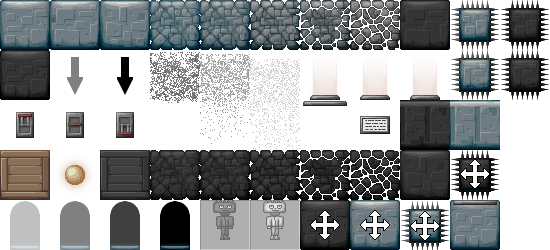
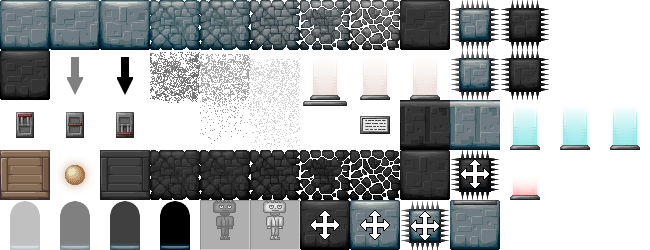
implemented the automatic teleporter and broken teleporter https://forum.freegamedev.net/viewtopic.php?f=48&t=8105&p=85640#p85377

diff --git a/src/Player.cpp b/src/Player.cpp
@@ -471,7 +471,11 @@ void Player::move(vector<Block*> &levelObjects,int lastX,int lastY){
 
 					//If we're not the shadow set the gameTip to portal.
 					if (!shadow && objParent != NULL) {
-						if (levelObjects[o]->message.empty()) {
+						if (levelObjects[o]->queryProperties(GameObjectProperty_Flags, shadow) & 0x40000000) {
+							// The player has figured out that this teleporter is broken.
+							objParent->gameTipText += _("It looks like that this portal leads to nowhere.");
+							objParent->gameTipText += "\n";
+						} else if (levelObjects[o]->message.empty()) {
 							objParent->gameTipText += tfm::format(
 								/// TRANSLATORS: Please do not remove %s from your translation:
 								///  - %s will be replaced with current action key
@@ -486,6 +490,8 @@ void Player::move(vector<Block*> &levelObjects,int lastX,int lastY){
 					if(canTeleport && (downKeyPressed || (levelObjects[o]->queryProperties(GameObjectProperty_Flags,shadow)&1))){
 						canTeleport=false;
 						if(downKeyPressed || levelObjects[o]!=objLastTeleport.get()){
+							bool atLeastOneIsBlocked = false;
+
 							//Loop the levelobjects again to find the destination.
 							for(unsigned int oo=o+1;;){
 								//We started at our index+1.
@@ -498,6 +504,13 @@ void Player::move(vector<Block*> &levelObjects,int lastX,int lastY){
 									//Couldn't teleport. We play the error sound only when the down key pressed.
 									if (downKeyPressed) {
 										getSoundManager()->playSound("error");
+
+										if (atLeastOneIsBlocked) {
+											objParent->updateShadowDeathTipTexture(getRenderer(), _("Can't teleport because the destination is blocked."));
+										} else {
+											objParent->updateShadowDeathTipTexture(getRenderer(), _("Can't teleport because the portal has no destination."));
+											levelObjects[o]->breakTeleporter();
+										}
 									}
 									break;
 								}
@@ -546,6 +559,8 @@ void Player::move(vector<Block*> &levelObjects,int lastX,int lastY){
 											//Play the swap sound.
 											getSoundManager()->playSound("swap");
 											break;
+										} else {
+											atLeastOneIsBlocked = true;
 										}
 									}
 								}

diff --git a/src/Block.cpp b/src/Block.cpp
@@ -362,7 +362,11 @@ void Block::onEvent(int eventType){
 			flags^=1;
 			break;
 		case TYPE_PORTAL:
-			appearance.changeState("activated");
+			if ((flags & 0x1) == 0 || !appearance.changeState("automatic_activated")) {
+				appearance.changeState("activated");
+			}
+			//Clear the broken flag since it is activated.
+			flags &= ~0x40000000;
 			break;
 		case TYPE_COLLECTABLE:
 			appearance.changeState("inactive");
@@ -699,18 +703,29 @@ void Block::setEditorData(std::map<std::string,std::string>& obj){
 		break;
 	case TYPE_PORTAL:
 		{
+			bool updateAppearance = false;
+
+			//Check if the destination key is in the data.
+			it = obj.find("destination");
+			if (it != obj.end()){
+				destination = it->second;
+				//Clear the broken flag since the destination has changed.
+				flags &= ~0x40000000;
+				updateAppearance = true;
+			}
+
 			//Check if the automatic key is in the data.
 			it=obj.find("automatic");
 			if(it!=obj.end()){
 				const string& s=it->second;
 				flags&=~0x1;
 				if(s=="true" || atoi(s.c_str())) flags|=0x1;
+				updateAppearance = true;
 			}
 
-			//Check if the destination key is in the data.
-			it=obj.find("destination");
-			if(it!=obj.end()){
-				destination=it->second;
+			if (updateAppearance) {
+				//Change appearance according to "automatic" property.
+				appearance.changeState((flags & 0x1) ? "automatic" : "default");
 			}
 
 			if ((it = obj.find("message")) != obj.end()) {
@@ -1245,5 +1260,12 @@ void Block::deleteMe() {
 	if (type == TYPE_COLLECTABLE) {
 		if (flags & 0x1) parent->currentCollectables--;
 		parent->totalCollectables--;
+	}
+}
+
+void Block::breakTeleporter() {
+	if (type == TYPE_PORTAL) {
+		appearance.changeState("broken");
+		flags |= 0x40000000;
 	}
 }

diff --git a/src/Block.h b/src/Block.h
@@ -48,7 +48,7 @@ private:
 	//moving object: 0x1=disabled 0x2=NOT loop
 	//button: bit0-1=behavior 0x4=pressed
 	//switch: bit0-1=behavior
-	//portal: 0x1=automatic
+	//portal: 0x1=automatic 0x40000000=broken (only used in-game)
 	//fragile: bit0-1 state
 	//collectible: 0x1=collected
 	int flags;
@@ -193,6 +193,9 @@ public:
 
 	//Mark this block to be deleted in next frame. Also hide this block and invalidate references to it.
 	void deleteMe();
+
+	//Change the state of the teleporter to "broken".
+	void breakTeleporter();
 };
 
 #endif

diff --git a/docs/ThemeDescription.md b/docs/ThemeDescription.md
@@ -23,11 +23,12 @@ block(<block name>){...} //subnode specifies the block's appearance
 block name:
 
 "Block", "PlayerStart", "ShadowStart",
-"Exit", "ShadowBlock", "Spikes",
-"Checkpoint", "Swap", "Fragile",
-"MovingBlock", "MovingShadowBlock", "MovingSpikes",
+"Exit", "ShadowBlock", "Spikes", "ShadowSpikes",
+"Checkpoint", "Swap", "Fragile", "ShadowFragile",
+"MovingBlock", "MovingShadowBlock", "MovingSpikes", "MovingShadowSpikes",
 "Teleporter", "Button", "Switch",
-"ConveyorBelt", "ShadowConveyorBelt", "NotificationBlock", "Collectable", "Pushable".
+"ConveyorBelt", "ShadowConveyorBelt", "NotificationBlock", "Collectable",
+"Pushable", "ShadowPushable".
 
 For the newest version of this list, see `Game::blockName` in `Game.cpp`.
 
@@ -49,7 +50,7 @@ the state name:
 * for all blocks
   - "base": Always draw the base before other states (intended to be used in level editor).
   - "default": The default state.
-* for "Checkpoint","Swap","Switch"
+* for "Checkpoint", "Swap", "Switch"
   - "activated": The activated state.
 * for "Collectable"
   - "inactive": The collected state.
@@ -57,10 +58,17 @@ the state name:
   - "closed": The closed state.
 * for "Button"
   - "button": The button (which is a separated, movable part of the button).
-* for "Fragile"
+* for "Fragile" and "ShadowFragile"
   - "fragile1": The stepped once state.
   - "fragile2": The stepped twice state.
   - "fragile3": The broken state.
+* for "Teleporter":
+  - "activated": The activated state.
+  - "automatic": (Optional) If present, this will be used instead of "default"
+    if the "automatic" property of the teleporter is true.
+  - "automatic_activated": (Optional) The activated state for "automatic".
+  - "broken": (Optional) If present, this will be used instead of "default"
+    if the teleporter has no destination and the player attempts to enter it at least once.
 
 transition state:
 
